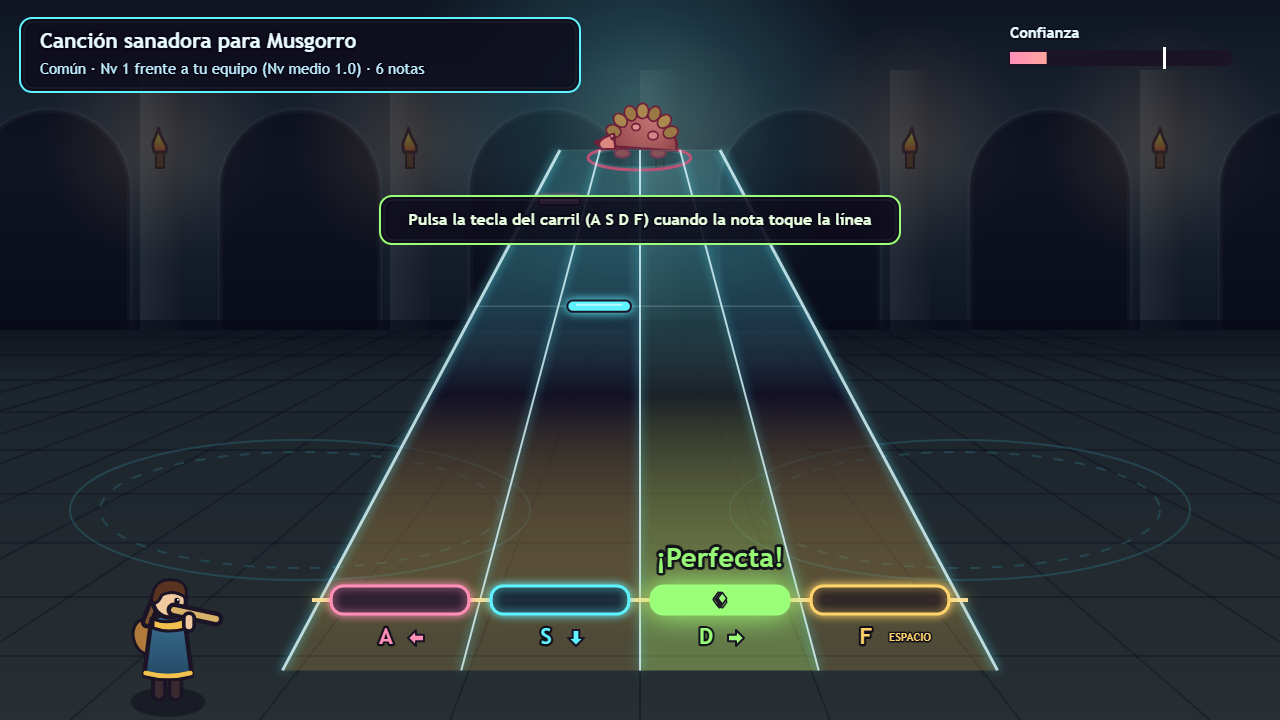
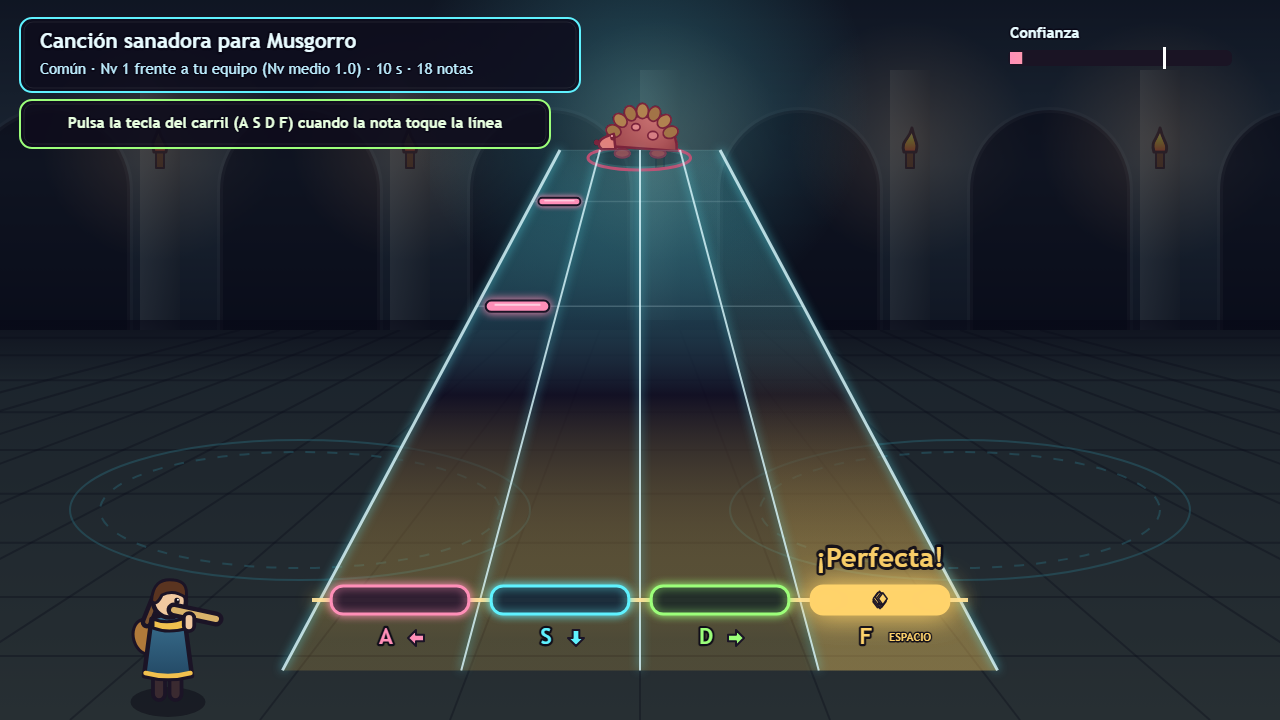
feat: tocar el anillo en mobile y canciones por duración
With a finger or a mouse the ring itself is the button: only the timing counts, no key row. Songs last by rarity (common 10 s, rare 20 s, super rare 45 s, legendary its own, 60 s by default), a second more per level above the team.

Brief: design/game-brief.md

diff --git a/src/main.ts b/src/main.ts
@@ -5,7 +5,7 @@
 import { CONFIG, tune } from './config';
 import { params, manual, clock, seedFrom, install } from './hook';
 import { rng, setSeed } from './game/rng';
-import { clamp, lerp, ease, TAU, hash, bz, typeMult, parryChance, xpNeed, calcStats, calcDmg } from './game/rules';
+import { clamp, lerp, ease, TAU, hash, bz, typeMult, parryChance, xpNeed, calcStats, calcDmg, songSeconds, songTempo, RARITY_NAME } from './game/rules';
 import { TYPES, MOVES, KEYCAPS, SPECIES, STARTERS, ROOMS, THEMES, DUNGEONS } from './game/data';
 import { isOpen, toSave, fromSave, type SaveData } from './game/progress';
 import { readSave, writeSave, clearSave } from './save-store';
@@ -488,20 +488,22 @@ const hwY = (d: number): number => HW_TOP + (HW_HIT - HW_TOP) * (hwScale(d) - HW
 const hwX = (edge: number, d: number): number => HW_CX + (edge - 2) * (HW_W / 4) * hwScale(d);
 const SCALE = [262, 294, 330, 392, 440, 523, 587, 659, 784, 880];
 function teamAvgLv() { return state.team.reduce((s, p) => s + p.lv, 0) / Math.max(1, state.team.length); }
+/** The song's length in seconds for this creature against the team as it is now. */
 function songLen(e: Pet) {
-  const rare = SPECIES[e.sp].rarity === 'rara';
-  return clamp(Math.round((rare ? tune.song_base_rara : tune.song_base_comun) + tune.song_per_level * (e.lv - teamAvgLv())), tune.song_min, tune.song_max);
+  return songSeconds(SPECIES[e.sp].rarity, e.lv, teamAvgLv(), SPECIES[e.sp].songSecs);
 }
 function beginSong() {
-  const S: Song = state.song, e = state.battle.enemies[S.cands[S.pick]], rare = SPECIES[e.sp].rarity === 'rara';
-  const n = songLen(e), beat = 60 / (tune.song_bpm + (rare ? tune.song_bpm_rare_bonus : 0));
-  const notes = []; let at = tune.song_travel + 0.9, prev = -1, prev2 = -2;
+  const S: Song = state.song, e = state.battle.enemies[S.cands[S.pick]];
+  const { bpm, half } = songTempo(SPECIES[e.sp].rarity), beat = 60 / bpm, t0 = tune.song_travel + 0.9, secs = songLen(e);
+  const times: number[] = []; // the song fills its length: a note on each beat or half-beat
+  for (let t = t0; t < t0 + secs; t += beat * (rng() < half ? 0.5 : 1)) times.push(t);
+  const n = times.length, notes = []; let prev = -1, prev2 = -2;
   for (let k = 0; k < n; k++) {
+    const at = times[k];
     let lane = Math.floor(rng() * 4); if (lane === prev && lane === prev2) lane = (lane + 1 + Math.floor(rng() * 3)) % 4;
     const deg = clamp(lane * 2 + (k % 3 === 2 ? 1 : 0) + (k >= n / 2 ? 1 : 0), 0, SCALE.length - 1);
     notes.push({ lane, at, judged: false, res: '', f: SCALE[deg] });
     prev2 = prev; prev = lane;
-    at += beat * (rng() < (rare ? tune.song_half_rara : tune.song_half_comun) ? 0.5 : 1);
   }
   Object.assign(S, { phase: 'play', t: 0, e, notes, beat, score: 0, perfect: 0, good: 0, miss: 0, flashL: [0, 0, 0, 0], ticks: 0 });
 }
@@ -680,17 +682,6 @@ function cornerButtons(y: number) {
     }
   }
 }
-/** The ring keys as big buttons, while a move plays out, for a player using a mouse or a finger. */
-function drawTouchPad() {
-  const keys: [string, string, number, number][] = [['KeyA', 'A', 330, 104], ['KeyW', 'W', 450, 104], ['Space', 'ESPACIO', 640, 180], ['KeyS', 'S', 830, 104], ['KeyD', 'D', 950, 104]];
-  for (const [code, label, cx, w] of keys) {
-    const x = cx - w / 2, y = 636, h = 74, on = down.has(code) || hit.has(code);
-    B(); ctx.roundRect(x, y + 5, w, h, 14); ctx.fillStyle = 'rgba(8,6,18,0.8)'; ctx.fill();
-    B(); ctx.roundRect(x, y + (on ? 4 : 0), w, h, 14); ctx.fillStyle = on ? '#fff6dc' : 'rgba(244,234,208,0.9)'; ctx.fill(); ctx.lineWidth = 3; ctx.strokeStyle = INK; ctx.stroke();
-    txt(label, cx, y + h / 2 + 1 + (on ? 4 : 0), label.length > 1 ? 20 : 32, '#1b1426', 'center', true, false);
-    region(x, y, w, h + 6, press(code));
-  }
-}
 /** The song's staff in perspective: its five lines are the four lanes, beat lines run down it, and each lane is a button. */
 function drawStaff(S: Song) {
   const dFar = 1, dNear = -0.035;
@@ -726,6 +717,12 @@ function drawStaff(S: Song) {
     }
     if (S.phase === 'play') region(hwX(l, 0), 280, lw, H - 280, press(LANE_KEYS[l][0]));
   }
+}
+/** A tap on the ring: the key the hit wants, pressed for the player. */
+function tapRing() {
+  const a: Action | null = state.battle ? state.battle.act : null; if (!a) return;
+  const h = a.hits.find(x => !x.judged && a.t >= x.start - 0.05); if (!h) return;
+  const k = KEYCAPS.find(c => c.id === h.key); if (k) hit.add(k.codes[0]);
 }
 /** A tapped move card: pick it and use it at the enemy or ally last tapped, if it can reach them. */
 function planPick(k: number) {
@@ -1127,7 +1124,10 @@ function drawRing(a: Loose) {
     B(); ctx.arc(cx, cy, r, 0, TAU); ctx.lineWidth = 6; ctx.strokeStyle = col; ctx.stroke();
     ctx.restore();
     for (let k = 0; k < 4; k++) { const ang = k * Math.PI / 2 + Math.PI / 4; diamond(cx + Math.cos(ang) * r, cy + Math.sin(ang) * r, 7, col); }
-    keycap(h.key, cx, cy, 0.75 + 0.25 * ease((now - h.start) / 0.12)); // this hit's key, from the moment its ring appears
+    if (pointer.active) { // with a finger or a mouse the ring itself is the button: only the timing counts
+      region(cx - R0, cy - R0, R0 * 2, R0 * 2, tapRing);
+      if ((a.side === 'team' ? state.tut.atk : state.tut.def) < 3) txt('¡Toca el anillo cuando se cierre!', cx, cy + R0 + 26, 20, a.side === 'team' ? CYAN : '#ffb0c0', 'center', true);
+    } else keycap(h.key, cx, cy, 0.75 + 0.25 * ease((now - h.start) / 0.12)); // this hit's key, from the moment its ring appears
     break;
   }
 }
@@ -1334,7 +1334,6 @@ function drawBattle() {
   }
   if (Bt.phase === 'win') { ctx.fillStyle = 'rgba(10,8,20,0.35)'; ctx.fillRect(0, 0, W, H); txt('¡Victoria!', W / 2, 300, 72, GOLD, 'center', true); }
   if (Bt.phase === 'lose') { ctx.fillStyle = `rgba(10,8,20,${clamp(Bt.t / 1.5, 0, 0.75)})`; ctx.fillRect(0, 0, W, H); txt('Tu equipo ha caído...', W / 2, 310, 52, '#ffd0d8', 'center', true); txt('Volverás a la fuente de la entrada, sin perder nada.', W / 2, 370, 20, '#e8e0f0', 'center'); }
-  if (Bt.phase === 'exec' && pointer.active) drawTouchPad();
   cornerButtons(10);
 }
 
@@ -1351,7 +1350,7 @@ function drawSong() {
       region(x - 120, 300, 240, 250, () => { if (S.pick === k) hit.add('Enter'); else { S.pick = k; sfx('select'); } });
       drawFigure(en.sp, x, 470, sel ? 1.15 : 0.85, -1, { t: state.t + k, side: sel ? 'enemy' : null, alpha: sel ? 1 : 0.5 });
       txt(`${nameOf(en)}  Nv ${en.lv}`, x, 510, 18, sel ? '#fff' : '#a098b8', 'center', true);
-      txt(`${SPECIES[en.sp].rarity === 'rara' ? 'Rara' : 'Común'} · ${songLen(en)} notas`, x, 536, 15, SPECIES[en.sp].rarity === 'rara' ? '#ff9fc8' : '#bfefff', 'center');
+      txt(`${RARITY_NAME[SPECIES[en.sp].rarity] || 'Común'} · canción de ${Math.round(songLen(en))} s`, x, 536, 15, SPECIES[en.sp].rarity === 'común' ? '#bfefff' : '#ff9fc8', 'center');
     });
     panel(240, 90, 800, 120, CYAN, 0.9);
     txt('La criatura está derrotada y asustada.', 640, 124, 22, '#e8fbff', 'center', true);
@@ -1389,7 +1388,7 @@ function drawSong() {
   }
   panel(20, 18, 560, 74, CYAN, 0.88);
   txt(`Canción sanadora para ${nameOf(e)}`, 40, 42, 21, '#e8fbff', 'left', true);
-  txt(`${rare ? 'Rara' : 'Común'} · Nv ${e.lv} frente a tu equipo (Nv medio ${teamAvgLv().toFixed(1)}) · ${S.notes.length} notas`, 40, 70, 15, rare ? '#ff9fc8' : '#bfefff', 'left');
+  txt(`${RARITY_NAME[SPECIES[e.sp].rarity] || 'Común'} · Nv ${e.lv} frente a tu equipo (Nv medio ${teamAvgLv().toFixed(1)}) · ${Math.round(S.notes.length ? S.notes[S.notes.length - 1].at - S.notes[0].at : 0)} s · ${S.notes.length} notas`, 40, 70, 15, rare ? '#ff9fc8' : '#bfefff', 'left');
   const mx = 1010, my = 52;
   txt('Confianza', mx, my - 18, 15, '#e8fbff', 'left', true);
   ctx.fillStyle = '#1a1424'; B(); ctx.roundRect(mx - 2, my - 2, 224, 16, 6); ctx.fill();

diff --git a/tests/integration/boot.spec.ts b/tests/integration/boot.spec.ts
@@ -79,7 +79,7 @@ test('can be played with the mouse from the title into the first dungeon, walkin
   expect(errors).toEqual([]);
 });
 
-test('in a battle turn, a tap on an attack card uses it on the enemy tapped before', async ({ page }, info) => {
+test('in a battle turn, a tap on an attack card uses it on the enemy tapped before, and a tap on its ring lands the hit', async ({ page }, info) => {
   await page.addInitScript(() => { try { localStorage.clear(); } catch { /* no storage */ } });
   const errors = await open(page, 'manual=1&seed=7');
   // Into the first dungeon by keys, then walk into the first wild creature until its battle asks for a move.
@@ -103,7 +103,7 @@ test('in a battle turn, a tap on an attack card uses it on the enemy tapped befo
   expect(after.phase).toBe('exec');
   expect(after.plan).toEqual({ move: 'chispazo', target: 0 });
 
-  // The ring key row: step until Chispazo's first ring is about to close, then tap the key it shows.
+  // Step until Chispazo's first ring is about to close, then tap the ring itself (no key needed).
   const key = await page.evaluate(() => {
     const g = window.game!;
     type H = { start: number; impact: number; key: string; judged: boolean };
@@ -112,9 +112,9 @@ test('in a battle turn, a tap on an attack card uses it on the enemy tapped befo
     g.step(1);
     return act()!.hits[0].key;
   });
-  await page.screenshot({ path: info.outputPath('touch-pad.png') }); // kept with the test's results, for a look
-  const padX: Record<string, number> = { A: 330, W: 450, SPC: 640, S: 830, D: 950 };
-  await page.mouse.click(padX[key], 673); await page.evaluate(() => window.game!.step());
+  await page.screenshot({ path: info.outputPath('touch-ring.png') }); // kept with the test's results, for a look
+  expect(key).toBeTruthy();
+  await page.mouse.click(888, 493); await page.evaluate(() => window.game!.step()); // the ring around the Musgorro
   const res = await page.evaluate(() => (window.game!.state as { battle: { act: { hits: { res: string }[] } } }).battle.act.hits[0].res);
   expect(['perfect', 'good']).toContain(res);
   expect(errors).toEqual([]);

diff --git a/tests/unit/rules.test.ts b/tests/unit/rules.test.ts
@@ -3,7 +3,7 @@
 import { describe, expect, it } from 'vitest';
 import config from '../../data/config.json';
 import { rng, setSeed } from '../../src/game/rng';
-import { calcStats, parryChance, typeMult, xpNeed } from '../../src/game/rules';
+import { calcStats, parryChance, songSeconds, typeMult, xpNeed } from '../../src/game/rules';
 import { MOVES, SPECIES } from '../../src/game/data';
 import type { Pet } from '../../src/game/types';
 
@@ -79,5 +79,22 @@ describe('calcStats', () => {
     const boss = pet('golem', 7, true), plain = pet('golem', 7);
     calcStats(boss); calcStats(plain);
     expect(boss.maxhp).toBe(Math.round(plain.maxhp * config.boss_hp_mult.value));
+  });
+});
+
+describe('songSeconds', () => {
+  it('lasts by rarity at the team\'s own level', () => {
+    expect(songSeconds('común', 3, 3)).toBe(config.song_secs_comun.value);
+    expect(songSeconds('rara', 3, 3)).toBe(config.song_secs_rara.value);
+    expect(songSeconds('superrara', 3, 3)).toBe(config.song_secs_superrara.value);
+  });
+  it('gives a legendary its own length, or the default when it has none', () => {
+    expect(songSeconds('legendaria', 5, 5, 95)).toBe(95);
+    expect(songSeconds('legendaria', 5, 5)).toBe(config.song_secs_legendaria.value);
+  });
+  it('grows with each level above the team and shrinks below, within its bounds', () => {
+    expect(songSeconds('rara', 6, 4) - songSeconds('rara', 4, 4)).toBe(2 * config.song_secs_per_level.value);
+    expect(songSeconds('común', 1, 40)).toBe(config.song_secs_min.value);
+    expect(songSeconds('legendaria', 1, 1, 9999)).toBe(config.song_secs_max.value);
   });
 });

diff --git a/src/game/rules.ts b/src/game/rules.ts
@@ -27,3 +27,23 @@ export function calcDmg(a: Pet, d: Pet, m: Move, pow?: number) {
   const base = (pow != null ? pow : m.pow) * (a.atk / (a.atk + d.def)) * tune.dmg_scale;
   return Math.max(1, Math.round(base * typeMult(m.type, d.type) * (0.9 + rng() * 0.2)));
 }
+
+/** Rarity tiers, as the data names them: común, rara, superrara, legendaria. */
+export const RARITY_NAME: Record<string, string> = { 'común': 'Común', rara: 'Rara', superrara: 'Superrara', legendaria: 'Legendaria' };
+
+/**
+ * How long a creature's healing song lasts, in seconds: by rarity (a legendary may have its own
+ * length), plus song_secs_per_level for each level it is above the team's average (less below).
+ */
+export function songSeconds(rarity: string, lv: number, avgLv: number, own?: number): number {
+  const base = rarity === 'legendaria' ? (own ?? tune.song_secs_legendaria)
+    : rarity === 'superrara' ? tune.song_secs_superrara : rarity === 'rara' ? tune.song_secs_rara : tune.song_secs_comun;
+  return clamp(base + tune.song_secs_per_level * (lv - avgLv), tune.song_secs_min, tune.song_secs_max);
+}
+
+/** A song's tempo: rarer creatures play faster, with more half-beats. */
+export function songTempo(rarity: string): { bpm: number; half: number } {
+  if (rarity === 'superrara' || rarity === 'legendaria') return { bpm: tune.song_bpm + tune.song_bpm_epic_bonus, half: tune.song_half_rara };
+  if (rarity === 'rara') return { bpm: tune.song_bpm + tune.song_bpm_rare_bonus, half: tune.song_half_rara };
+  return { bpm: tune.song_bpm, half: tune.song_half_comun };
+}

diff --git a/src/game/types.ts b/src/game/types.ts
@@ -21,6 +21,8 @@ export interface Move {
 export interface Species {
   name: string; type: string; rarity: string; base: number[]; grow: number[];
   learn: Record<number, string[]>; evo?: string; h: number; w: number; desc?: string; evolved?: boolean;
+  /** A legendary creature's own song length, in seconds. */
+  songSecs?: number;
 }
 
 /** One creature, on the team or in a battle. */

diff --git a/design/game-brief.md b/design/game-brief.md
@@ -21,12 +21,13 @@ After play: Estructura: Mapa + campamento · Progreso: Mixto · RNG: Salas baraj
 After play: Continuemos
 After play: Si, hace commit. Ahora, podemos hacerlo touch-able con el mouse, y refinar la experiencia para mobile?
 After play: Se podría cambiar la parte de música por algo como esa foto? Y al tener la vista vertical, los controles podrían ser: A o left, S o abajo, D o derecha, F o Espacio. Te parece bien? Es muy poco natural como está hasta el momento. Además, con esa estructura es muchisimo mas usable en mobile. Mejoras de tablero de selección de ataque: - Quitar panel de Objetivo, donde te dice la eficacia del ataque. - Poner algún indicador en el ataque mismo, que te indique la eficacia contra el objetivo seleccionado. - Cambiar el +1 energía, por un prisma verde, simbolizando que añade energía, sin decirlo explícitamente. - En Vez de decir Energía libre 5, poner 5 prismas llenos y 5 vacíos (Simbolizando 5/10)
+After play: Al estar en mobile, quitale las teclas para hacer parry/perfect en los ataques, con solo clickear en el círculo que sea suficiente. Además, la duración de las canciones se siente muuuy pobre con solo 4 teclas. Subilo por lo menos a unos 10 segundos (para los common), 20 segundos para los rare, 45 segundos para los super raros, y la duración de cada legendario debería ser única (puede ser 1 min o mas sin problema)
 
 **Pitch:** Bajas a una mazmorra con un equipo de hasta 4 mascotas, peleas por turnos con golpes y bloqueos a tiempo, y a cada criatura que derrotas le tocas una canción sanadora para convencerla de unirse a ti.
 
 **Genre:** RPG por turnos de adiestrar mascotas (creature collector + JRPG por turnos)
 
-**Controls:** Flechas/WASD para moverte por la mazmorra. En el campamento, Arriba/Abajo y Enter; en el mapa, Izquierda/Derecha, Enter para entrar y Retroceso para volver. En tu turno: Izquierda/Derecha cambian de ataque, Arriba/Abajo de objetivo (de arriba hacia abajo en pantalla), 1-4 o Enter confirman y Retroceso vuelve. Cada golpe tiene su tecla (W, A, S, D o Espacio), de una secuencia propia de cada ataque: aparece dentro del anillo en cuanto el anillo aparece, nunca al elegir el ataque, y se pulsa cuando el anillo se cierra, al golpear y al bloquear. En la canción, cuatro carriles: A o ←, S o ↓, D o →, F o Espacio, cuando la nota toca la línea. Con mouse o pantalla táctil: todo lo que se ve se toca; en la mazmorra se mantiene el dedo para caminar hacia él; en tu turno se toca un enemigo para apuntar y un ataque para usarlo; los anillos muestran botones grandes abajo y en la canción se toca el carril.
+**Controls:** Flechas/WASD para moverte por la mazmorra. En el campamento, Arriba/Abajo y Enter; en el mapa, Izquierda/Derecha, Enter para entrar y Retroceso para volver. En tu turno: Izquierda/Derecha cambian de ataque, Arriba/Abajo de objetivo (de arriba hacia abajo en pantalla), 1-4 o Enter confirman y Retroceso vuelve. Cada golpe tiene su tecla (W, A, S, D o Espacio), de una secuencia propia de cada ataque: aparece dentro del anillo en cuanto el anillo aparece, nunca al elegir el ataque, y se pulsa cuando el anillo se cierra, al golpear y al bloquear. En la canción, cuatro carriles: A o ←, S o ↓, D o →, F o Espacio, cuando la nota toca la línea. Con mouse o pantalla táctil: todo lo que se ve se toca; en la mazmorra se mantiene el dedo para caminar hacia él; en tu turno se toca un enemigo para apuntar y un ataque para usarlo; en los anillos basta tocar el anillo cuando se cierra, sin teclas y en la canción se toca el carril.
 
 **Question:** ¿Se sostiene una sesión de mazmorra donde la pausa táctica del turno y el timing de golpes, bloqueos y canción se alternan sin cansar?
 
@@ -45,7 +46,7 @@ After play: Se podría cambiar la parte de música por algo como esa foto? Y al 
 - View: 2.5D · Camera: mazmorra vista desde arriba, ligeramente inclinada; combate fijo de lado (tu equipo a la izquierda, enemigos a la derecha).
 
 ## First minute
-Eliges una de tres mascotas iniciales (Brasa, Brote o Marea). Llegas al campamento, abres el mapa y entras a la Mazmorra de la Fuente. En la primera sala y tocas a una criatura salvaje que deambula. En el combate, el tiempo se detiene: eliges un ataque con 1-4 y un anillo se cierra sobre el enemigo. "Espacio cuando el anillo se cierre" y el golpe crítico salta en grande. El enemigo anuncia su ataque y otro anillo te pide bloquear: lo paras. Cae derrotado, la cinta de pentagrama se tiende hacia él y tocas 6 notas cortas. "¡Se une a tu equipo!", con su nombre y un jingle. Ahora tienes 2 mascotas.
+Eliges una de tres mascotas iniciales (Brasa, Brote o Marea). Llegas al campamento, abres el mapa y entras a la Mazmorra de la Fuente. En la primera sala y tocas a una criatura salvaje que deambula. En el combate, el tiempo se detiene: eliges un ataque con 1-4 y un anillo se cierra sobre el enemigo. "Espacio cuando el anillo se cierre" y el golpe crítico salta en grande. El enemigo anuncia su ataque y otro anillo te pide bloquear: lo paras. Cae derrotado, la cinta de pentagrama se tiende hacia él y tocas una canción corta, de unos 10 segundos. "¡Se une a tu equipo!", con su nombre y un jingle. Ahora tienes 2 mascotas.
 
 ## Challenge
 Las salas 1 y 2 tienen criaturas sueltas y débiles. La sala 3, hacia el minuto 3-4, trae un grupo de 3 con un tipo que tu inicial no cubre: el primer combate de verdad. El jefe llega hacia el minuto 10-12: anuncia un golpe enorme un turno antes, golpea en varias fases de timing y tiene una segunda fase a media vida. Si pierdes, vuelves a la fuente de la entrada con el equipo curado y sin perder nada. Las salas superadas siguen superadas. Más adelante: criaturas más raras con canciones más largas y rápidas.
@@ -66,7 +67,7 @@ Las salas 1 y 2 tienen criaturas sueltas y débiles. La sala 3, hacia el minuto 
 - [x] Mazmorra pequeña: 5-6 salas y el jefe
 - [x] Combate por turnos con pausa para elegir el ataque de cada mascota y franja de orden de turno
 - [x] Golpes a tiempo (crítico) y bloqueo o parada a tiempo (parada perfecta = sin daño + contragolpe)
-- [x] Canción sanadora: minijuego de ritmo en cuatro carriles verticales (A S D F, o tocando el carril). Su longitud depende de la rareza y del nivel de la criatura respecto al tuyo
+- [x] Canción sanadora: minijuego de ritmo en cuatro carriles verticales (A S D F, o tocando el carril). Dura según la rareza (común 10 s, rara 20 s, superrara 45 s, cada legendaria la suya, de 1 min o más), algo más si la criatura supera el nivel de tu equipo
 - [x] Equipo de hasta 4 mascotas, empezando por elegir 1 de 3 iniciales
 - [x] Tres tipos en ciclo (Brasa > Brote > Marea > Brasa), con aviso de golpe fuerte o débil
 - [x] Niveles por experiencia y ataques nuevos al subir de nivel
@@ -77,7 +78,7 @@ Las salas 1 y 2 tienen criaturas sueltas y débiles. La sala 3, hacia el minuto 
 - [x] Energía compartida del equipo: 5 al empezar, +2 por turno, los ataques gratis recargan (+1 o +2) y cada parada perfecta puede dar +1 (probabilidad parry_config / golpes del ataque; el jefe vale más); panel con libre, reservada, recarga y coste del ataque elegido
 - [x] Cada ataque con una secuencia de teclas, una por golpe (W, A, S, D o Espacio): la tecla aparece en el anillo al aparecer el anillo, nunca al elegir el ataque
 - [x] Campamento (fogata, fuente que cura, menú), mapa de mazmorras que se abren al vencer a cada jefe, y guardado en el navegador con Continuar o Nueva partida
-- [x] Se juega con mouse o pantalla táctil (botones grandes para los anillos y la canción, pausa y silencio en pantalla) y en el teléfono: sin zoom ni desplazamiento, pantalla completa en horizontal donde el navegador lo permite, aviso para girar el teléfono
+- [x] Se juega con mouse o pantalla táctil (en los anillos basta tocar el anillo, en la canción el carril; pausa y silencio en pantalla) y en el teléfono: sin zoom ni desplazamiento, pantalla completa en horizontal donde el navegador lo permite, aviso para girar el teléfono
 - [x] Panel de turno sin palabras de más: la eficacia contra el objetivo marcado va en cada carta (chevrones), la energía que da un ataque es un prisma verde y la libre una fila de prismas llenos y vacíos
 
 ## Your systems

diff --git a/data/config-notes.md b/data/config-notes.md
@@ -47,11 +47,16 @@ holds no comments. The values themselves are in `data/config.json`.
 - `release_xp`: XP x level for letting a convinced creature go when the team is full
 
 ---- The healing song ----
-- `song_base_comun`: notes for a common creature at your level
-- `song_base_rara`: notes for a rare creature at your level
-- `song_per_level`: notes added per level it is above your team's average
+- `song_secs_comun`: s a common creature's song lasts at your team's level
+- `song_secs_rara`: s for a rare one
+- `song_secs_superrara`: s for a super rare one
+- `song_secs_legendaria`: s for a legendary one with no length of its own (each legendary sets songSecs in src/game/data.ts)
+- `song_secs_per_level`: s added per level the creature is above your team's average (taken off below it)
+- `song_secs_min`: the shortest a song gets
+- `song_secs_max`: the longest a song gets
 - `song_bpm`: beats per minute, common creatures
 - `song_bpm_rare_bonus`: extra bpm for rare ones
+- `song_bpm_epic_bonus`: extra bpm for super rare and legendary ones (they use the rare half-beat chance)
 - `song_half_comun`: chance a gap is half a beat, common
 - `song_half_rara`: chance a gap is half a beat, rare
 - `song_travel`: s a note takes along the ribbon
